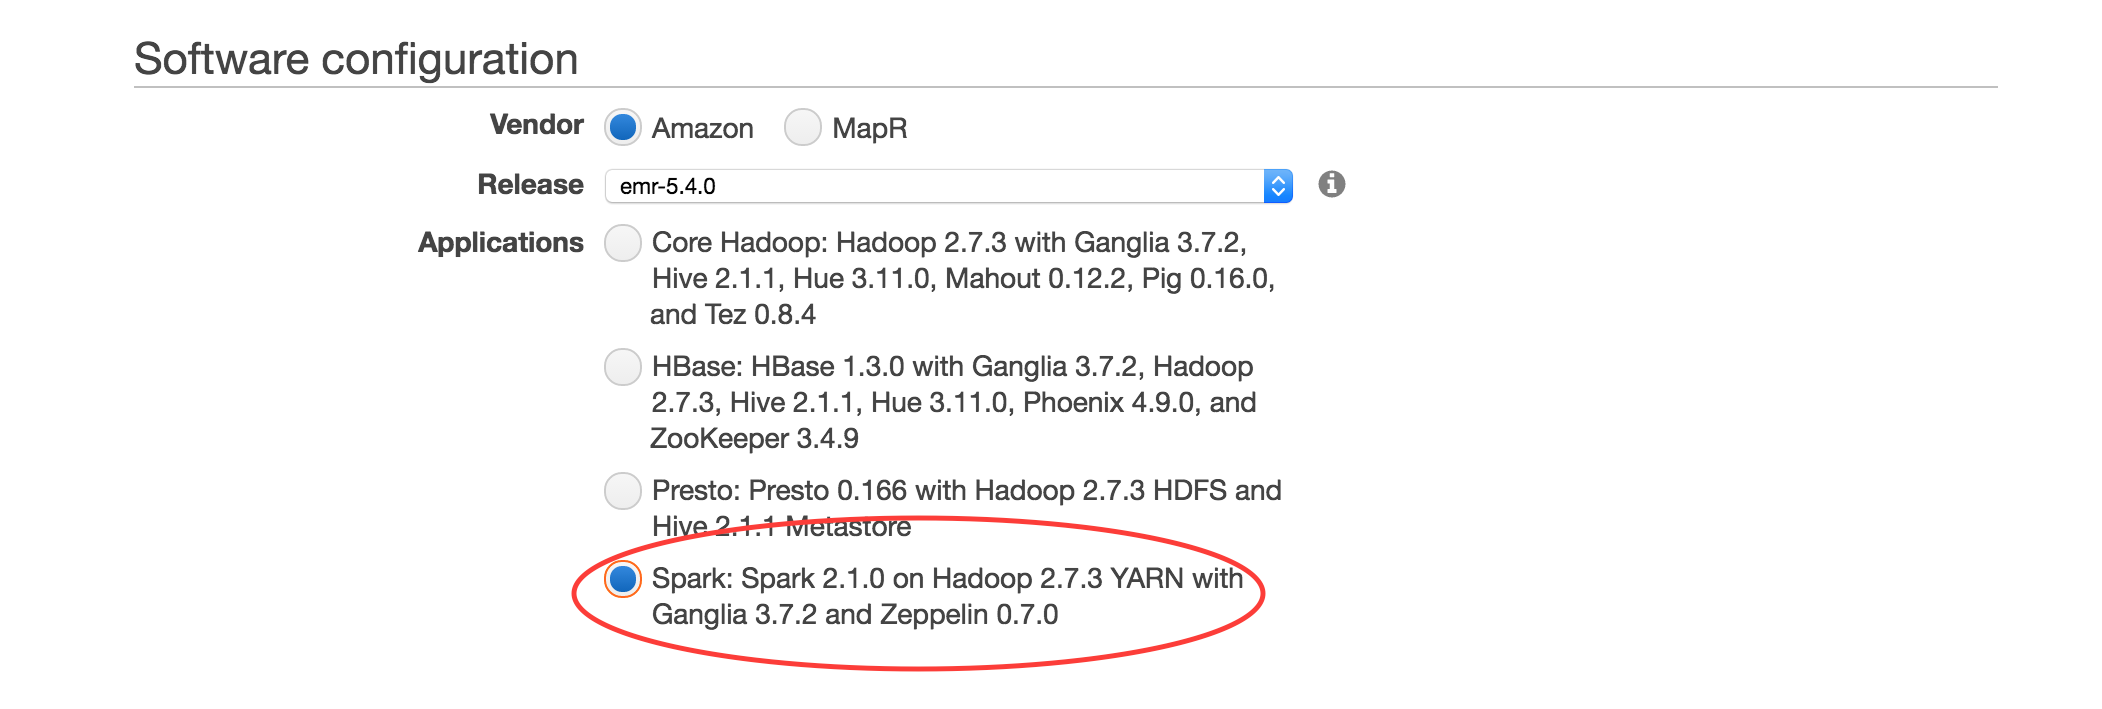
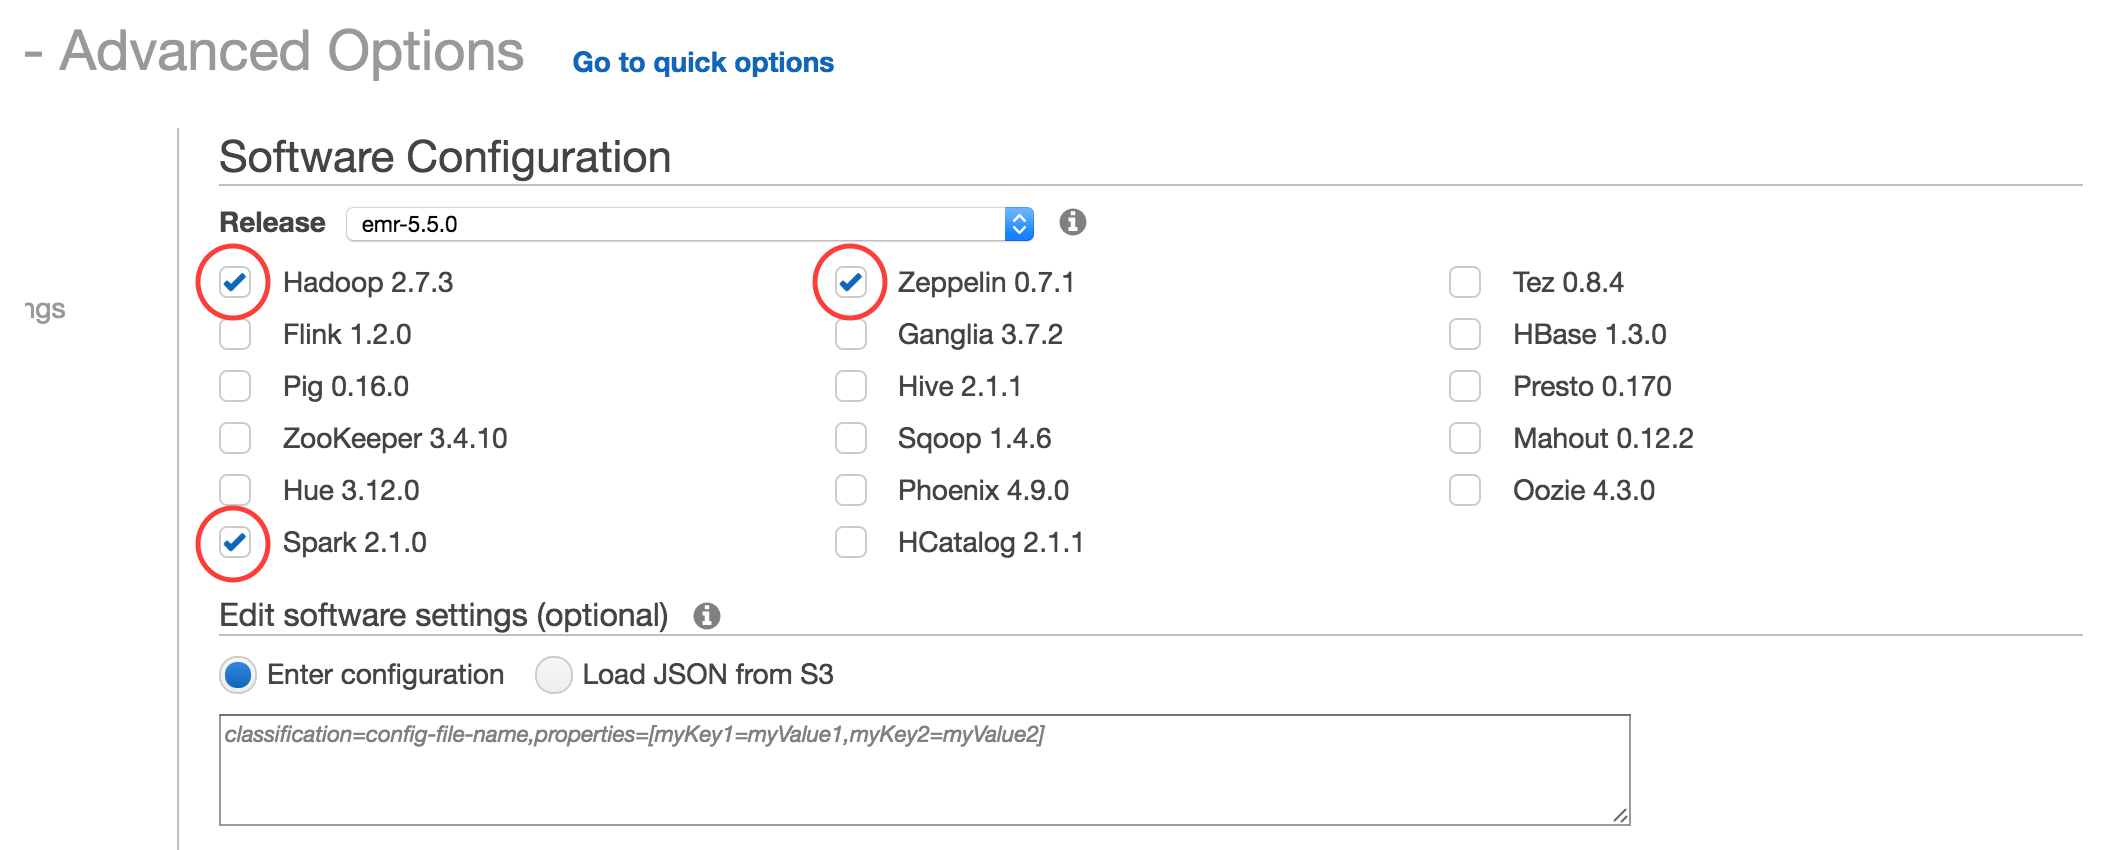
Updated setup to forgo the feared foxy-proxy

diff --git a/index.html b/index.html
@@ -72,8 +72,10 @@
     <a href="https://console.aws.amazon.com/" class="external" target="_blank"><div class="set-up-web login"></div></a>
   </div>
 
+
+
   <div id="set-up-web-keypair-description" class="step" data-x="2000" data-y="1000">
-    <p>We're in. Let's first make a keypair so you can securely connect to the <a href="#what-well-be-making-diagram">otherwise hidden amazon cloud</a>.</p>
+    <p>Once logged in, let's first make a keypair so you can securely connect (<a href="http://docs.aws.amazon.com/AWSEC2/latest/UserGuide/AccessingInstancesLinux.html" class="external" target="_blank">via SSH</a>) to the <a href="#what-well-be-making-diagram">master instance</a> in case you want to debug.  <i>(keypairs are free)</i></p>
     <br />
     <br />
   </div>
@@ -96,22 +98,47 @@
 
   <div id="set-up-web-keypair-part-3" class="step" data-x="2300" data-y="1200" data-scale="0.25">
     <ul>
-      <li>Download the pem file.</li>
-      <li>We'll use this <a href="#use-zeppelin">later</a>.</li></ul>
+      <li>Download the pem file, back it up.</li>
+      <li>You can use this to <a href="http://docs.aws.amazon.com/AWSEC2/latest/UserGuide/AccessingInstancesLinux.html" class="external" target="_blank">SSH onto the cluster</a>.</li>
+    </ul>
     <div class="set-up-web keypair-download"></div>
   </div>
 
 
-  <div id="set-up-web-emr-description" class="step" data-x="3000" data-y="1000">
+
+  <div id="set-up-web-security-group-description" class="step" data-x="3000" data-y="1000">
+    <p>Next, let's create a <a href="http://docs.aws.amazon.com/AmazonVPC/latest/UserGuide/VPC_SecurityGroups.html" class="external" target="_blank">security group</a> with an opening for zeppelin so we can connect <a href="#what-well-be-making-diagram">via our browser</a>.  <i>(security groups are free)</i></p>
+    <br />
+    <br />
+  </div>
+
+  <div id="set-up-web-security-group-part-1" class="step" data-x="2850" data-y="1200" data-scale="0.25">
+    <ul>
+      <li>Go to the <a href="https://us-west-2.console.aws.amazon.com/ec2/v2/home?region=us-west-2#SecurityGroups:sort=groupId" class="external" target="_blank">EC2 security group UI</a>.</li>
+      <li>Click "Create Security Group."</li>
+    </ul>
+    <a href="https://us-west-2.console.aws.amazon.com/ec2/v2/home?region=us-west-2#SecurityGroups:sort=groupId" class="external" target="_blank"><div class="set-up-web security-group-splash"></div></a>
+  </div>
+
+  <div id="set-up-web-security-group-part-2" class="step" data-x="3150" data-y="1200" data-scale="0.25">
+    <p>After naming, create an inbound TCP rule for port 8890 (Zeppelin will use this). Then, create the security group.</p>
+    <div class="set-up-web security-group-setup"></div>
+  </div>
+
+
+
+
+  <div id="set-up-web-emr-description" class="step" data-x="4000" data-y="1000">
     <p>
-      We're logged in, and we have a keypair to connect with. Now we need to actually create the cluster. <br />
-      (AKA <a href="#what-well-be-making-diagram">the orange stuff</a>.)
+      We're logged in, we have a keypair to SSH with, and a security group that allows our browser.
+    </p>
+      Now we need to create <a href="#what-well-be-making-diagram">the orange stuff</a>.
     </p>
     <br />
     <br />
   </div>
 
-  <div id="set-up-web-emr-part-1" class="step" data-x="2800" data-y="1200" data-scale="0.25">
+  <div id="set-up-web-emr-part-1" class="step" data-x="3700" data-y="1200" data-scale="0.25">
     <ul>
       <li>Navigate to the <a href="https://us-west-2.console.aws.amazon.com/elasticmapreduce/home?region=us-west-2#" class="external" target="_blank">EMR UI</a>.</li>
       <li>Click <a href="https://us-west-2.console.aws.amazon.com/elasticmapreduce/home?region=us-west-2#quick-create:#" class="external" target="_blank">"Create Cluster"</a>.</li>
@@ -119,28 +146,58 @@
     <a href="https://us-west-2.console.aws.amazon.com/elasticmapreduce/home?region=us-west-2#" class="external" target="_blank"><div class="set-up-web emr-splash"></div></a>
   </div>
 
-  <div id="set-up-web-emr-part-2" class="step" data-x="3150" data-y="1150" data-scale="0.25">
-    <p>Name the cluster.</p>
-    <div class="set-up-web emr-conf-general"></div>
+  <div id="set-up-web-emr-part-2" class="step" data-x="3900" data-y="1150" data-scale="0.10">
+    <p>Break the gloves out, we're getting <i>advanced</i>.</p>
+    <div class="set-up-web emr-conf-advanced"></div>
   </div>
 
-  <div id="set-up-web-emr-part-3" class="step" data-x="3150" data-y="1230" data-scale="0.25">
-    <p>Choose Spark + Zeppelin.</p>
+  <div id="set-up-web-emr-part-3" class="step" data-x="3900" data-y="1195" data-scale="0.10">
+    <p>Choose Hadoop + Spark + Zeppelin.</p>
+    <small>(You can <a href="http://docs.aws.amazon.com/emr/latest/ReleaseGuide/emr-configure-apps.html" class="external" target="_blank">configure Zeppelin</a> later through that configuration field.)</small>
     <div class="set-up-web emr-conf-software"></div>
   </div>
 
-  <div id="set-up-web-emr-part-4" class="step" data-x="3150" data-y="1310" data-scale="0.25">
-    <p>Keep the defaults for now.</p>
-    <div class="set-up-web emr-conf-hardware"></div>
-    <small><i>It is suggested to provide memory-optimized core instances for later revisions of your cluster.</i></small>
+  <div id="set-up-web-emr-part-4" class="step" data-x="3900" data-y="1245" data-scale="0.10">
+    <p>Steps are irrelevant to Zeppelin.</p>
+    <p><i>Neeeext.</i></p>
+    <small>(If you submit a long running spark job, you'd do it as a step.)</small>
+    <div class="set-up-web emr-conf-steps"></div>
   </div>
 
-  <div id="set-up-web-emr-part-5" class="step" data-x="3150" data-y="1390" data-scale="0.25">
-    <p>Use <a href="#set-up-web-keypair-description">the keypair</a> we previously created, then click "Create Cluster".</p>
-    <div class="set-up-web emr-conf-access"></div>
+
+  <div id="set-up-web-emr-part-5" class="step" data-x="4050" data-y="1150" data-scale="0.10">
+    <p>What location and network to put the cluster in.</p>
+    <p>Defaults are fine.</p>
+    <div class="set-up-web emr-conf-deployment"></div>
   </div>
 
-  <div id="set-up-web-emr-startup" class="step" data-x="4000" data-y="1000">
+  <div id="set-up-web-emr-part-6" class="step" data-x="4050" data-y="1207" data-scale="0.10">
+    <p>Set up the machine types in the cluster. Defaults are fine, but higher memory is usually better. <i>Neeeext.</i></p>
+    <div class="set-up-web emr-conf-instances"></div>
+  </div>
+
+
+  <div id="set-up-web-emr-part-7" class="step" data-x="4200" data-y="1150" data-scale="0.10">
+    <p>Remove termination protection - keeping the cluster on means paying for it.</p>
+    <div class="set-up-web emr-conf-termination"></div>
+  </div>
+
+  <div id="set-up-web-emr-part-8" class="step" data-x="4200" data-y="1200" data-scale="0.10">
+    <p>Add tags of meaning to allow you to track &amp; manage your clusters. Not necessary. <i>Neeeext.</i></p>
+    <div class="set-up-web emr-conf-tags"></div>
+  </div>
+
+  <div id="set-up-web-emr-part-9" class="step" data-x="4350" data-y="1150" data-scale="0.10">
+    <p>Use <a href="#set-up-web-keypair-description">the keypair</a> we previously created. If you forget this, you won't be able to SSH.</p>
+    <div class="set-up-web emr-conf-keypair"></div>
+  </div>
+  <div id="set-up-web-emr-part-10" class="step" data-x="4350" data-y="1206" data-scale="0.10">
+    <p>Add to master additional <a href="#set-up-web-security-group-description">the security group</a> we previously created, then click "Create Cluster".</p>
+    <div class="set-up-web emr-conf-security-groups"></div>
+  </div>
+
+
+  <div id="set-up-web-emr-startup" class="step" data-x="5000" data-y="1000">
     <p><i>That's it.</i>  You've created the cluster.  Don't worry, it's natural to have to wait about 10 minutes for everything to provision.</p>
     <br />
     <p>Here's what you should see happen:</p>
@@ -148,31 +205,33 @@
     <br />
   </div>
 
-  <div id="set-up-web-emr-startup-part-1" class="step" data-x="3650" data-y="1250" data-scale="0.25">
+  <div id="set-up-web-emr-startup-part-1" class="step" data-x="4650" data-y="1250" data-scale="0.25">
     <p>Scheduling EC2 instances in</p>
     <div class="set-up-web emr-startup-starting"></div>
   </div>
 
-  <div id="set-up-web-emr-startup-part-2" class="step" data-x="3900" data-y="1250" data-scale="0.25">
-    <p>Master node provisioned &amp; loading</p>
+  <div id="set-up-web-emr-startup-part-2" class="step" data-x="4900" data-y="1250" data-scale="0.25">
+    <p>Master instance provisioned &amp; loading</p>
     <div class="set-up-web emr-startup-master-started"></div>
   </div>
 
-  <div id="set-up-web-emr-startup-part-3" class="step" data-x="4150" data-y="1250" data-scale="0.25">
+  <div id="set-up-web-emr-startup-part-3" class="step" data-x="5150" data-y="1250" data-scale="0.25">
     <p>Core nodes provisioned &amp; loading</p>
     <div class="set-up-web emr-startup-bootstrap"></div>
   </div>
 
-  <div id="set-up-web-emr-startup-part-4" class="step" data-x="4400" data-y="1250" data-scale="0.25">
+  <div id="set-up-web-emr-startup-part-4" class="step" data-x="5400" data-y="1250" data-scale="0.25">
     <p>All setup finished, waiting for you</p>
     <div class="set-up-web emr-startup-started"></div>
   </div>
 
 
-  <div id="set-up-web-emr-shutdown" class="step" data-x="5000" data-y="1000">
+
+  <div id="set-up-web-emr-shutdown" class="step" data-x="6000" data-y="1000">
     <h1>Word to the wise:</h1>
     <p>Terminate your cluster when you're done. <b>You're spending money right now</b>.</p>
   </div>
+
 
 
   <div id="set-up-shell-1" class="step" data-x="1000" data-y="2000">

diff --git a/css/steps.css b/css/steps.css
@@ -82,6 +82,7 @@
 .set-up-web.login {
   background-image: url(../img/set-up-web-login.png);
 }
+
 .set-up-web.keypair-splash {
   background-image: url(../img/set-up-web-keypair-splash.png);
 }
@@ -91,38 +92,71 @@
 .set-up-web.keypair-download {
   background-image: url(../img/set-up-web-keypair-download.png);
 }
+
+.set-up-web.security-group-splash {
+  background-image: url(../img/set-up-web-security-group-splash.png);
+}
+.set-up-web.security-group-setup {
+  background-image: url(../img/set-up-web-security-group-setup.png);
+}
+
+
 .set-up-web.emr-splash {
   background-image: url(../img/set-up-web-emr-splash.png);
 }
-.set-up-web.emr-conf-general {
-  background-image: url(../img/set-up-web-emr-conf-general.png);
-  height: 170px;
+.set-up-web.emr-conf-advanced {
+  background-image: url(../img/set-up-web-emr-conf-advanced.png);
+  height: 100px;
 }
 .set-up-web.emr-conf-software {
   background-image: url(../img/set-up-web-emr-conf-software.png);
-  height: 250px;
+  height: 350px;
 }
-.set-up-web.emr-conf-hardware {
-  background-image: url(../img/set-up-web-emr-conf-hardware.png);
-  height: 110px;
+.set-up-web.emr-conf-steps {
+  background-image: url(../img/set-up-web-emr-conf-steps.png);
+  height: 180px;
 }
-.set-up-web.emr-conf-access {
-  background-image: url(../img/set-up-web-emr-conf-access.png);
-  height: 225px;
+
+.set-up-web.emr-conf-termination {
+  background-image: url(../img/set-up-web-emr-conf-termination.png);
+  height: 300px;
 }
-.set-up-web.emr-startup-starting {
-  background-image: url(../img/set-up-web-emr-startup-starting.png);
+.set-up-web.emr-conf-tags {
+  background-image: url(../img/set-up-web-emr-conf-tags.png);
+  height: 330px;
 }
-.set-up-web.emr-startup-master-started {
-  background-image: url(../img/set-up-web-emr-startup-master-started.png);
+
+.set-up-web.emr-conf-deployment {
+  background-image: url(../img/set-up-web-emr-conf-deployment.png);
+  height: 280px;
+}
+.set-up-web.emr-conf-instances {
+  background-image: url(../img/set-up-web-emr-conf-instances.png);
+  height: 400px;
+}
+
+.set-up-web.emr-conf-keypair {
+  background-image: url(../img/set-up-web-emr-conf-keypair.png);
+  height: 330px;
+}
+.set-up-web.emr-conf-security-groups {
+  background-image: url(../img/set-up-web-emr-conf-security-groups.png);
+  height: 400px;
+}
+
+
+.set-up-web.emr-startup-started {
+  background-image: url(../img/set-up-web-emr-startup-started.png);
 }
 .set-up-web.emr-startup-bootstrap {
   background-image: url(../img/set-up-web-emr-startup-bootstrap.png);
 }
-.set-up-web.emr-startup-started {
-  background-image: url(../img/set-up-web-emr-startup-started.png);
+.set-up-web.emr-startup-master-started {
+  background-image: url(../img/set-up-web-emr-startup-master-started.png);
 }
-
+.set-up-web.emr-startup-starting {
+  background-image: url(../img/set-up-web-emr-startup-starting.png);
+}
 
 /* Whodunnit */
 #whodunnit ul {

diff --git a/css/presentation.css b/css/presentation.css
@@ -197,7 +197,7 @@ a.external {
     box-sizing:         border-box;
 
     font-family: 'PT Serif', georgia, serif;
-    font-size: 48px;
+    font-size: 44px;
     line-height: 1.5;
 }
 
